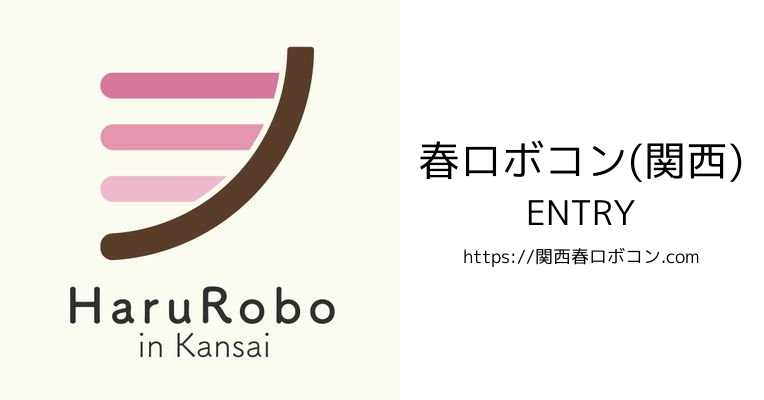
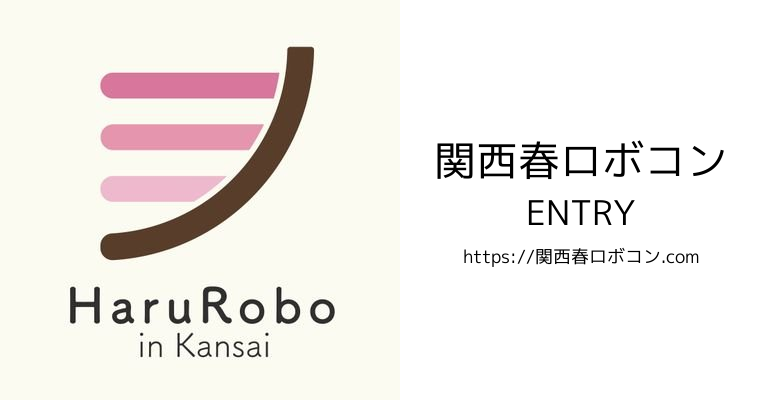
Twitterカード画像修正

Changed region(s): [[0.5419, 0.36, 0.9935, 0.45]]

diff --git a/scripts/make_card.py b/scripts/make_card.py
@@ -118,6 +118,7 @@ def add_card_info(file_path, card_path):
             else:
                 start_formatter = True
 
+    card_path.replace('\\', '/')
     card_info = img_string + " " + '"img/'+card_path+'"\n'
     if img_info:
         datalist[i] = card_info
@@ -147,7 +148,7 @@ for i in file_list:
     font = "./static/mplus-2p-regular.ttf"
 
     make_base_image("./static/img/logo.jpg", save_pic_dir)
-    make_image(font, save_pic_dir, "春ロボコン(関西)",
+    make_image(font, save_pic_dir, "関西春ロボコン",
                horizontal*0.76, height*0.4, 42)
 
     if get_east_asian_width_count(title) > 24:
